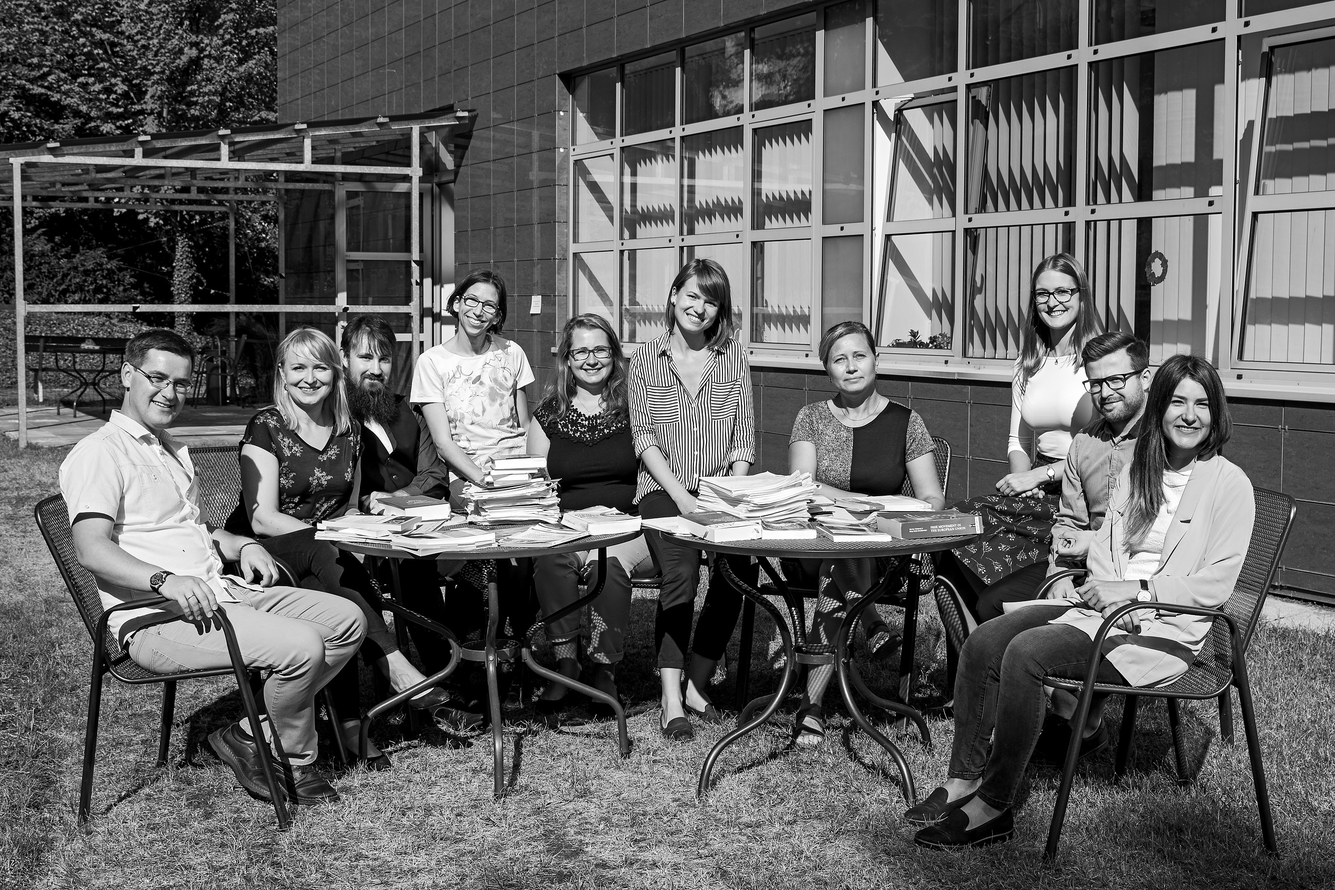
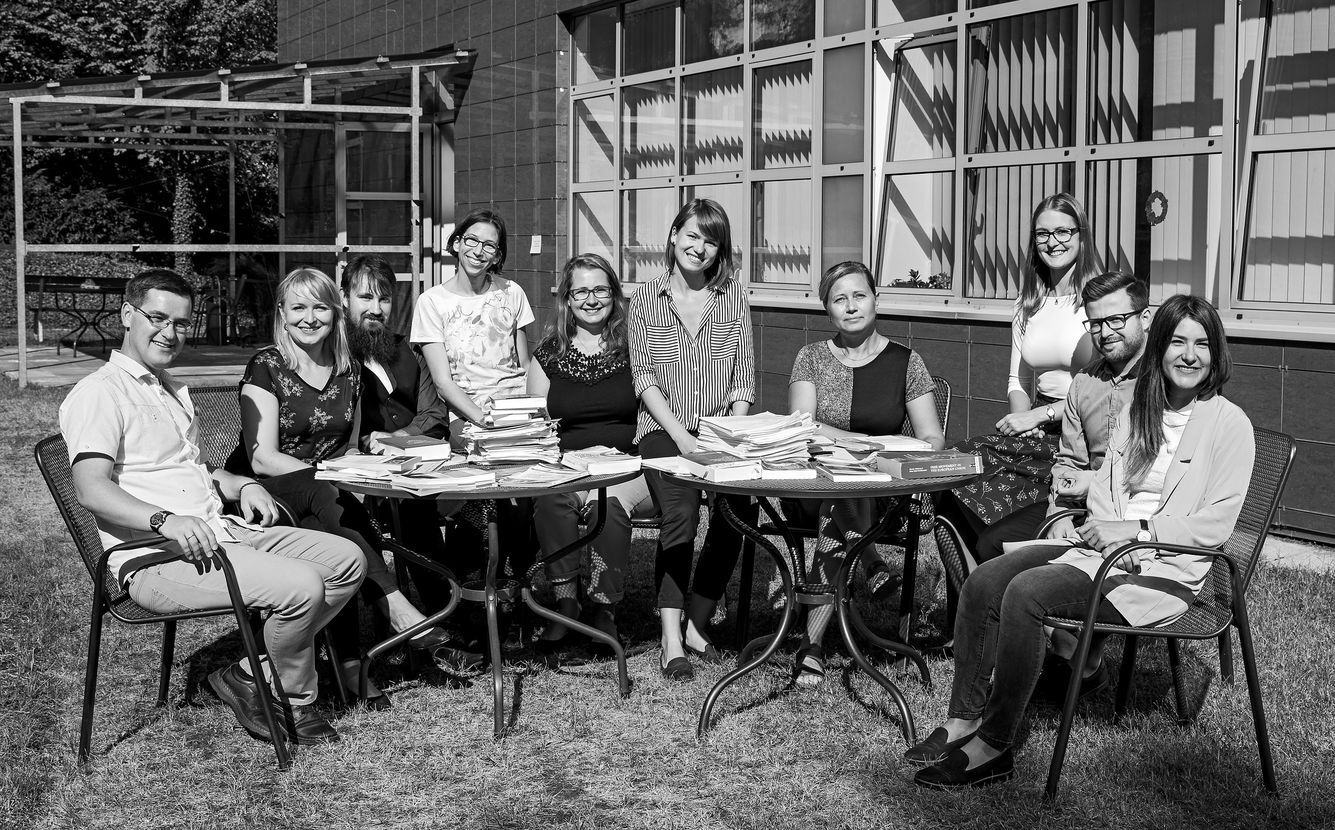
Pics and fixes

diff --git a/assets/style/_layout.scss b/assets/style/_layout.scss
@@ -61,7 +61,7 @@ article {
           filter: brightness(1.2) grayscale(100%);
 
           object-fit: cover;
-          object-position: 50% 50%;
+          object-position: 50% 20%;
         }
 
         &::after {

diff --git a/content/pusobnost/zahranicni-spoluprace/index.md b/content/pusobnost/zahranicni-spoluprace/index.md
@@ -1,4 +1,5 @@
 ---
 title: Zahraniční spolupráce
 headerColor: pink
+draft: true
 ---

diff --git a/content/provoz/press-kit.md b/content/provoz/press-kit.md
@@ -1,4 +1,4 @@
 ---
 title: Press kit
+draft: true
 ---
-
